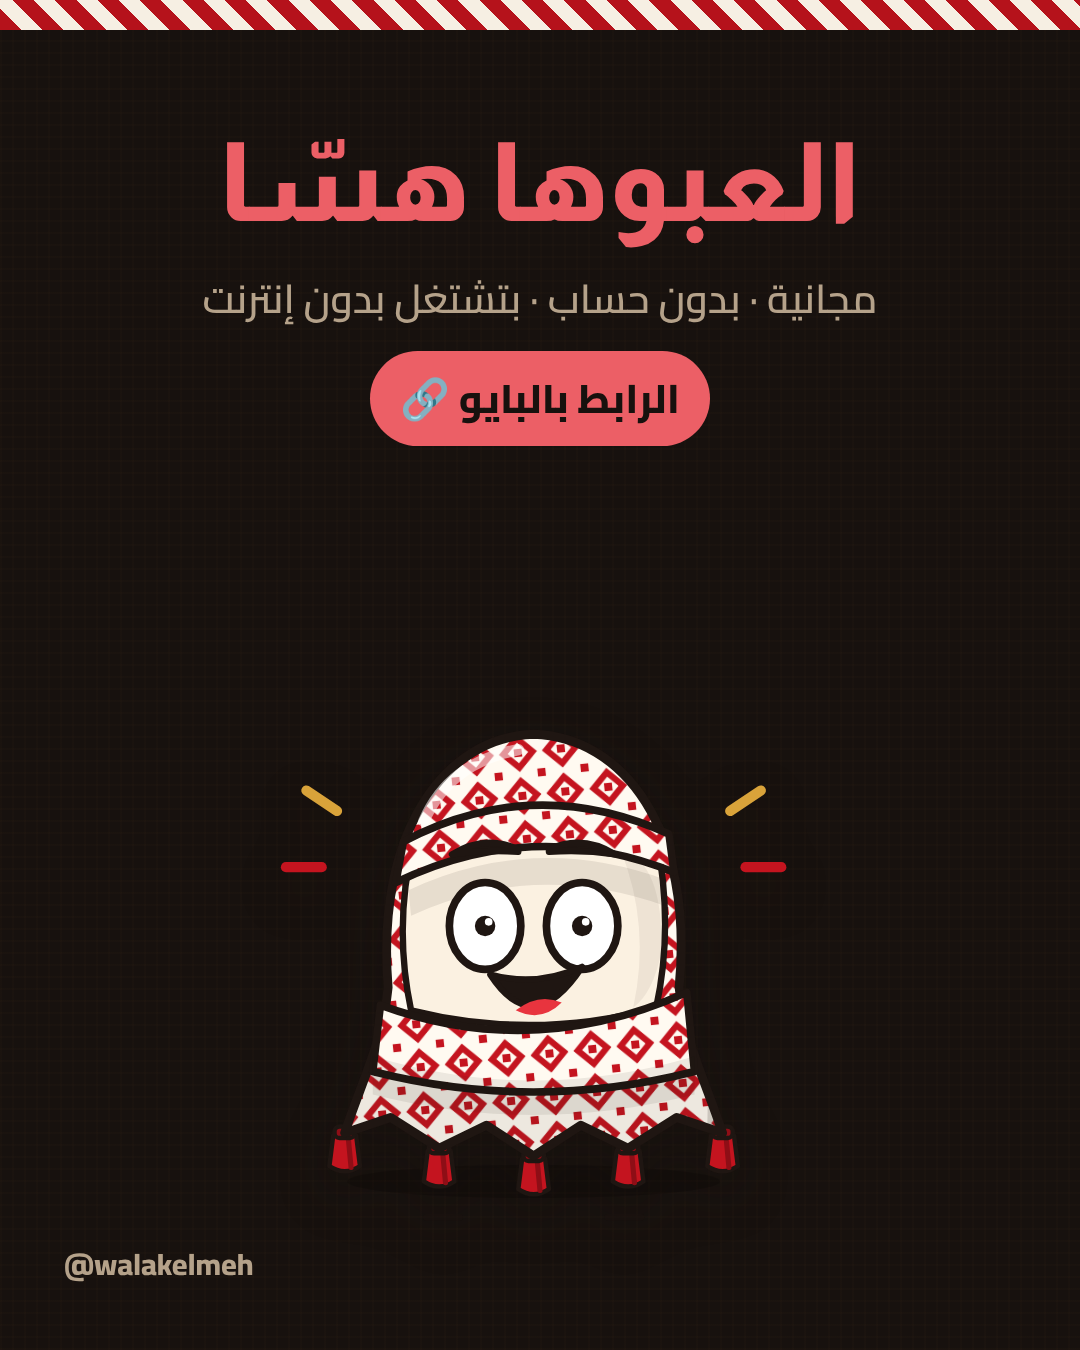
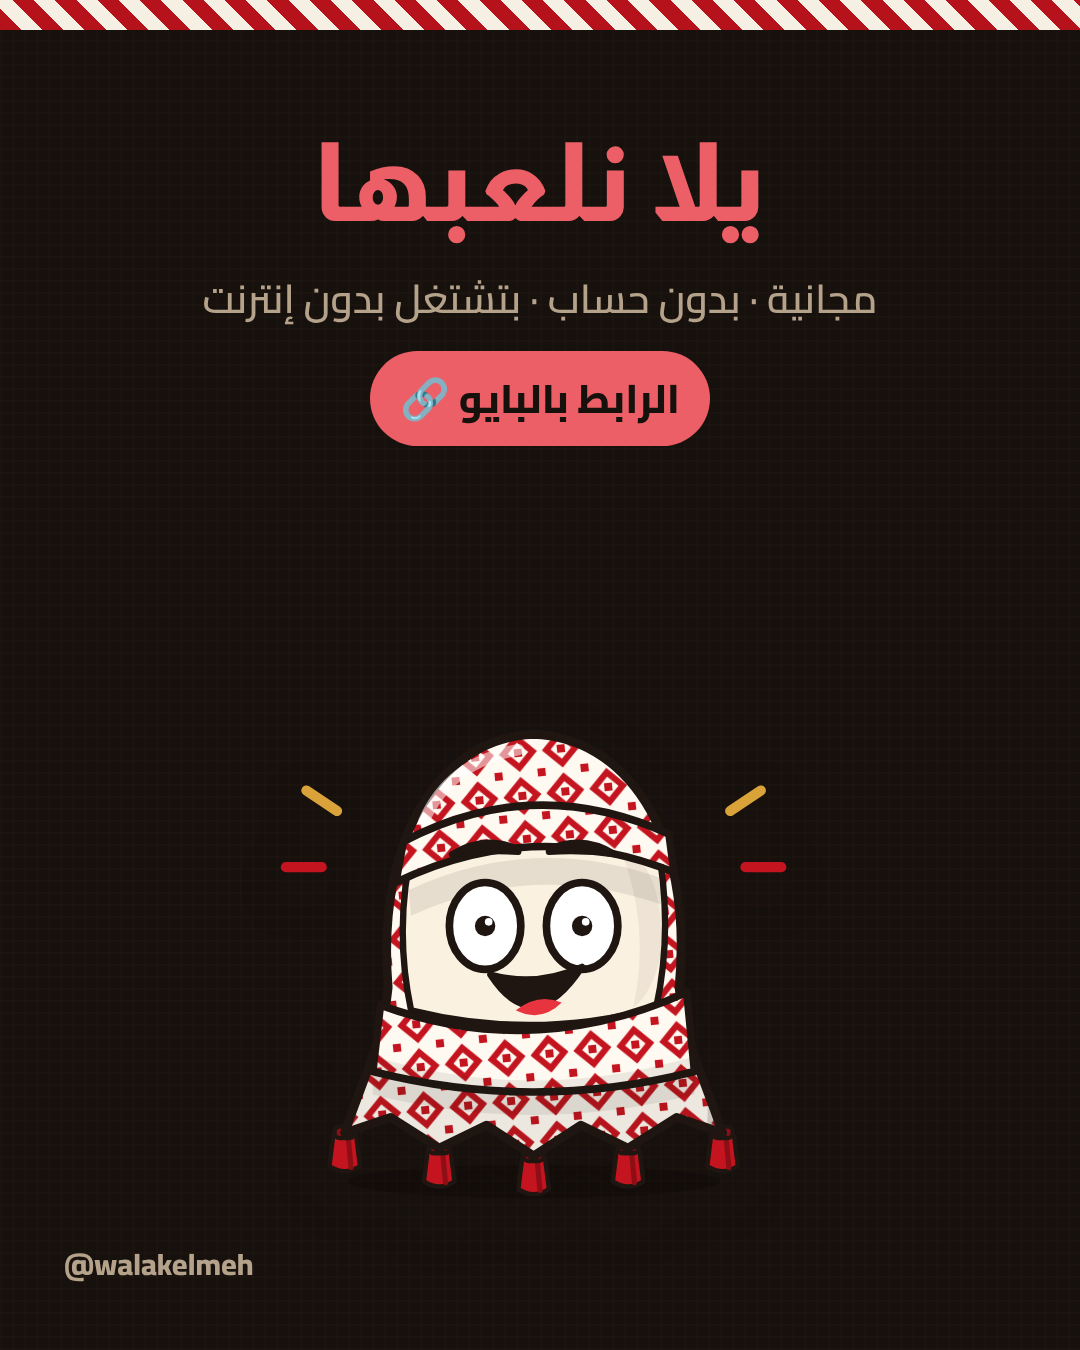
Add the launch plan for Thursday 5 November 2026
Zero-budget, solo-sized plan: 30-day goals, prep checklist, teasers, launch
night, four weeks of posts, weekly routine, video scripts, ready-to-send
messages and quick replies. The social kit's post 9 and bio now use «يلا نلعب».

Claude-Session: https://claude.ai/code/session_011con5sebt3vto5L265rjMa

Changed region(s): [[0.1833, 0.0933, 0.7944, 0.1867]]

diff --git a/brand/tools/social/social.py b/brand/tools/social/social.py
@@ -74,7 +74,7 @@ post('heads-up', 'cream', f'''<div class="band" style="top:0"></div>
 <div style="position:absolute;top:560px;left:90px;width:620px;height:350px;border-radius:44px;background:#17110e;padding:14px;transform:rotate(-5deg);box-shadow:0 24px 48px rgba(23,17,14,.3)"><img src="{RAW('headsup')}" style="width:100%;height:100%;border-radius:32px;object-fit:cover"></div>
 <img class="masc" src="{M('headsup')}" style="width:420px;bottom:110px;right:40px">{foot('cream', False)}''')
 post('play-now', 'night', f'''<div class="band" style="top:0"></div>
-<div style="position:absolute;top:120px;left:0;right:0;text-align:center;display:grid;gap:22px"><h1 style="font-size:110px">العبوها هسّا</h1><p>مجانية · بدون حساب · بتشتغل بدون إنترنت</p>
+<div style="position:absolute;top:120px;left:0;right:0;text-align:center;display:grid;gap:22px"><h1 style="font-size:110px">يلا نلعبها</h1><p>مجانية · بدون حساب · بتشتغل بدون إنترنت</p>
 <span class="chip" style="justify-self:center;font-size:40px">الرابط بالبايو 🔗</span></div>
 <img class="masc" src="{M('yay')}" style="width:600px;bottom:120px;left:50%;transform:translateX(-50%)">{foot('night', False)}''')
 

diff --git a/docs/marketing/launch-plan.md b/docs/marketing/launch-plan.md
@@ -1,0 +1,161 @@
+# Launch plan: Thursday 5 November 2026
+
+The public launch of ولا كلمة. The website and game are already live at walakelmeh.com; this is the night we announce it loudly.
+
+- **Launch:** Thursday 5 November 2026, 8 pm Amman time. Thursday night opens the weekend, which is when people gather and play.
+- **Budget:** zero. Everything here is organic.
+- **Team:** Mikdam alone, a few hours a week. The plan is sized for that: content is batched once a week and every reply is pre-written.
+- **Posts, stories and video ideas** are in the social kit (`docs/social/launch-plan.md`, graphics in `brand/social/`). This plan schedules them and adds everything around them.
+
+Shareable version with a tick-off checklist and copy buttons: https://claude.ai/artifact/5LgKUt1T8F9xBBwAmehFhn (private until shared).
+
+## Goals for the first 30 days (5 Nov – 3 Dec)
+
+Realistic for organic and solo. We review them on Thursday 3 December.
+
+| Goal | Target | Where we read it |
+| --- | --- | --- |
+| Games started | 1,000 | GoatCounter, `game-start/…` events |
+| Installs to the home screen | 150 | GoatCounter, `install/installed` and `install/prompt-accepted` |
+| Instagram and TikTok followers (together) | 500 | The apps' own insights |
+| Card suggestions through the website | 30 | hello@walakelmeh.com |
+| Cafés that agree to a pilot night | 3 | Our own list |
+| Stretch: one video with 10,000+ views | 1 | The apps' own insights |
+
+GoatCounter has to be connected before launch, or the first two goals can't be measured.
+
+## The free levers
+
+1. **The launch crew.** 15 to 20 friends and family who play on launch night and share the link or their result picture. The first wave of reach always comes from people who know you.
+2. **WhatsApp.** The game's "شارك النتيجة" picture is our built-in loop: every shared result is an ad. Status on launch night, and a "Thursday night" reminder each week.
+3. **Micro-creators.** Jordanian creators with 2,000 to 50,000 followers who post family, comedy or food content. No money: they get early access and a card made for them in the game.
+4. **Cafés.** The 3-café pilot from the partner playbook (`docs/partner-playbook.md`), with the printed kit (`brand/partner-kit/`).
+5. **Communities.** One honest post each in groups where it's allowed: Jordanians abroad, parents' groups, university student clubs, and r/jordan on Reddit. Always with a real clip, never a bare link.
+6. **Search.** Search Console and Bing are set up, and the blog articles bring people searching for party games.
+
+## Before launch (26 Oct – 4 Nov)
+
+| When | Task | Who |
+| --- | --- | --- |
+| Mon 26 – Tue 27 Oct | Create **@walakelmeh** on Instagram and TikTok. Also reserve it on Facebook, X and YouTube so nobody else takes it. | Mikdam |
+| Mon 26 – Tue 27 Oct | Set up the profiles: picture `profile/profile-patch.png`, name, bio and link (below), highlight covers. | Mikdam |
+| Mon 26 – Tue 27 Oct | Send Claude the handles; they go into the website footer and its search data. | Mikdam → Claude |
+| Mon 26 – Tue 27 Oct | Create a free GoatCounter account and send Claude the site code; Claude connects it. | Mikdam → Claude |
+| Mon 26 – Tue 27 Oct | Finish Search Console and Bing. | Mikdam |
+| Wed 28 – Thu 29 Oct | Write the launch crew list (15–20 people) and send them the heads-up message. | Mikdam |
+| Wed 28 – Thu 29 Oct | Pick 10 micro-creators and send the creator message. | Mikdam |
+| Wed 28 – Thu 29 Oct | Pick 5 cafés and send the café message, or visit with a printed table tent. | Mikdam |
+| Fri 30 – Sat 31 Oct | Film the 4 launch videos with family and friends (scripts below), in one 2-hour session. | Mikdam |
+| Sun 1 Nov | Schedule launch week's posts in Meta Business Suite (free, covers Instagram) and TikTok's scheduler. | Mikdam |
+| Sun 1 – Wed 4 Nov | Teasers (below). | Mikdam |
+| Wed 4 Nov | Remind the launch crew: tomorrow at 8. | Mikdam |
+
+### Teasers
+
+| Day | Story or post | Text |
+| --- | --- | --- |
+| Sun 1 Nov | Story: Shammogh's sticker on a plain background | «في إشي جاي… 🤫» |
+| Mon 2 Nov | Story with a quiz sticker | «شو يعني «ولا كلمة»؟» |
+| Tue 3 Nov | 7-second reel: someone acting a card, cut before the answer | «الجواب الخميس 😏» |
+| Wed 4 Nov | Story with a countdown sticker to Thursday 8 pm | «بكرا الساعة ٨… جهّزوا حالكم» |
+
+## Launch night (Thursday 5 November)
+
+| Time | What |
+| --- | --- |
+| 6:00 pm | Open walakelmeh.com and the game on an Android phone and an iPhone. Check play, the install button and a form. |
+| 8:00 pm | Post 1 (`post-01-arrived`) and the best video as the first reel, on Instagram and TikTok. |
+| 8:05 pm | Stories: a link sticker to walakelmeh.com, then «العبوها الليلة وشاركونا النتيجة». |
+| 8:10 pm | WhatsApp: your status, then the launch message to the launch crew and family groups. |
+| 8:30 – 10:30 pm | Reply to every comment and message (quick replies below), and repost every story that tags us. |
+| Fri 6 Nov | Post 2, plus a thank-you story: «أول ليلة: شكراً إلكم 🙏». |
+
+## The first four weeks
+
+Sized for one person: 2 feed posts and 1 video a week, plus stories on 3 days. The post numbers refer to the social kit.
+
+| Week | Thursday (video) | Saturday (post) | Tuesday (post) | Stories |
+| --- | --- | --- | --- | --- |
+| 1 · 5–11 Nov | Launch: post 1 + video 1 «لما خالتك تمثّل منسف» | Post 2: meet Shammogh | Post 3: how it works | Thank-you, quiz, suggest-a-card |
+| 2 · 12–18 Nov | Video 2: family vs friends | Post 4: mansaf, «اكتبوا كيف بتمثّلوها» | Post 5: three modes | This-or-that poll, café night |
+| 3 · 19–25 Nov | Video 3: heads-up fails | Post 6: categories | Post 7: «يا زلمة!» | Guess-the-word, first community card |
+| 4 · 26 Nov – 2 Dec | Video 4: guess with us (or a café night recap if one happened) | Post 8: heads-up | Post 9: «يلا نلعبها» | Suggest-a-card, a café winner |
+| Thu 3 Dec | **30-day review** against the goals | | | |
+
+## Weekly routine (about 3 hours)
+
+| When | Time | What |
+| --- | --- | --- |
+| Sunday | 90 min | Schedule the week's 2 posts and the video. Plan 3 story days. |
+| Every day | 10 min | Reply to comments and messages, and repost tags. |
+| Thursday evening | 20 min | A "Thursday night" story: «شو بتلعبوا الليلة؟» |
+| Once a week | 30 min | Check the numbers (GoatCounter and the apps' insights), read the suggestions, and pick a community card to add. |
+
+## The four launch videos
+
+Film on a phone, vertical, with natural light. Each is 15 to 25 seconds. Put the hook as text in the first second.
+
+1. **«لما خالتك تمثّل منسف» 😂** A relative acts one card while everyone shouts wrong guesses, the timer beeps, then the answer appears. End on «يلا نلعب · walakelmeh.com».
+2. **Family vs friends.** The same 5 cards, two groups, quick cuts and a running score. End on the game's result picture.
+3. **Heads-up fails.** The funniest wrong guesses in «عالجبين», each with a freeze frame and a Shammogh sticker.
+4. **Guess with us.** Act a card to the camera for 5 seconds, then «اكتبوا جوابكم بالتعليقات 👇», with the answer at the very end. Comments push the video further.
+
+## Ready-to-send messages
+
+### Heads-up to the launch crew (WhatsApp)
+
+> هلا! 👋 الخميس الجاي (٥ تشرين الثاني) الساعة ٨ بنطلق «ولا كلمة»: لعبة تمثيل أردنية للسهرات، مجانية وبتشتغل عالجوال. بدنا منكم إشي بسيط: ليلتها العبوها مع أهلكم أو صحابكم، وشاركوا الرابط أو صورة النتيجة عالستوري 🙏 walakelmeh.com
+
+### Launch message (to forward)
+
+> 🎭 «ولا كلمة» صارت جاهزة! لعبة التمثيل الأردنية: طلّع البطاقة، مثّلها بالحركات، وفريقك بحزر قبل ما يخلص الوقت. ٥١٠ بطاقة، مجانية، بدون حساب، وبتشتغل بدون إنترنت. يلا نلعب 👉 walakelmeh.com
+>
+> *Wala Kelmeh is here: the Jordanian charades game. 510 cards, free, no account, works offline. Let's play 👉 walakelmeh.com*
+
+### Creator message (Instagram or TikTok DM)
+
+> مرحبا [الاسم]! 👋 إحنا فريق «ولا كلمة»، لعبة تمثيل أردنية مجانية للسهرات (walakelmeh.com). بنحب محتواك، وحاسّين إنو اللعبة بتعمل فيديو بيضحّك مع عيلتك أو صحابك. بنطلق الخميس ٥ تشرين الثاني، وحابين نعطيك إياها قبل الكل، وإذا عملت فيديو منضيف باللعبة بطاقة خاصة فيك ✨ بدون أي التزام. شو رأيك؟
+
+### Café message
+
+> مرحبا! إحنا فريق «ولا كلمة»، لعبة تمثيل أردنية مجانية بتنلعب عالجوال. بنجرّب «ليلة ولا كلمة» بـ٣ مقاهي بعمّان: الزبائن بيلعبوا طاولة ضد طاولة، والفايز بياخذ جائزة منكم. منعطيكم كيت مطبوع (ستاند طاولة، بوستر، ستيكر للواجهة) ببلاش، ومنروّج لمحلّكم على صفحاتنا. بتحبوا نحكي ١٠ دقايق؟
+
+### Community post (groups and Reddit)
+
+> We made a free Jordanian charades game for family nights: 510 cards in Jordanian Arabic (with Arabizi), three modes including heads-up, no account, and it works offline once opened. It runs in the browser and installs to your home screen. We'd love feedback and card ideas: walakelmeh.com
+>
+> عملنا لعبة تمثيل أردنية مجانية للسهرات: ٥١٠ بطاقة بالحكي الأردني، ٣ طرق للعب، بدون حساب وبتشتغل بدون إنترنت. بنحب نسمع رأيكم وأفكار بطاقات: walakelmeh.com
+
+## Quick replies
+
+| They ask | Reply |
+| --- | --- |
+| كيف بنزّلها؟ | ادخلوا walakelmeh.com واكبسوا «ثبّتها على جوالك» 📲 على أندرويد بكبسة، وعلى آيفون بتورجيكم الخطوتين. |
+| بدها نت؟ | بس أول مرة، بعدها بتشتغل بدون إنترنت ✈ |
+| ببلاش؟ | اللعبة الأساسية مجانية دايماً، وما في إعلانات بنص اللعب 🤝 |
+| في إلها تطبيق؟ | بتنثبّت على شاشتكم وبتشتغل زي التطبيق، وقريباً على Google Play 🔜 |
+| عندي فكرة بطاقة | يا سلام! اقترحها هون 👉 walakelmeh.com/categories/ وإذا انضافت منذكر اسمك 🙌 |
+| بدنا ليلة بمحلنا | تكرم! عبّوا النموذج هون 👉 walakelmeh.com/cafes/ ومنرجعلكم خلال يومين ☕ |
+| بالإنجليزي؟ | Every card has Arabizi under it, and the website has an English version: walakelmeh.com/en/ |
+
+## Risks
+
+| Risk | What we do |
+| --- | --- |
+| Small reach with no budget | The launch crew, creators and the WhatsApp result picture carry the first wave. Comments get reused as content. |
+| Running it alone gets tiring | Batch once a week, use the quick replies, and stick to 2 posts a week. Missing a day is fine. |
+| iPhone users don't know how to install | The game shows the steps. Add a «ثبّتها» story highlight. |
+| Group posts look like spam | One post per group, only where self-promotion is allowed, always with a real clip. |
+
+## After the 30 days
+
+- **New Year's Eve (20–31 Dec):** a countdown-game reel and a «سهرة آخر السنة» story series, linked to the winter-nights blog article.
+- **Ramadan 2027 (starts around 8 February, depending on the moon sighting):** start preparing in mid-January, with «سهرة سحور» café nights, the «رمضان والعيد» category, and the Ramadan blog article. Likely the biggest moment of the year.
+- **Google Play:** once the developer account exists, the store launch becomes its own mini-campaign.
+
+## Claude's part
+
+- Add the social handles to the website (footer and search data) as soon as they exist.
+- Connect GoatCounter once the site code arrives.
+- Keep the social kit in line with «يلا نلعب» (done for post 9 and the bio).
+- Add the community card each week, and a creator's card when one posts a video.

diff --git a/docs/social/launch-plan.md b/docs/social/launch-plan.md
@@ -1,5 +1,7 @@
 # Social kit and launch plan
 
+The dated launch campaign (5 November 2026) that schedules these posts is in [`docs/marketing/launch-plan.md`](../marketing/launch-plan.md).
+
 Instagram first, TikTok alongside. Graphics are in [`brand/social/`](../../brand/social/); regenerate them with `brand/tools/social/social.py` (it needs `website/out/` built for the stitch art).
 
 Handle: **@walakelmeh** on every platform (placeholder until the accounts exist; change `HANDLE` in the script if it differs).
@@ -10,8 +12,8 @@ Handle: **@walakelmeh** on every platform (placeholder until the accounts exist;
 | --- | --- |
 | Profile picture | `profile/profile-patch.png` (recommended, matches the app icon) or `profile/profile-shammogh.png` |
 | Name | ولا كلمة · Wala Kelmeh |
-| Bio | 🎭 لعبة التمثيل الأردنية<br>🤫 مثّلها… بس ولا كلمة!<br>📱 مجانية · بدون حساب · بدون إنترنت<br>⬇ العبها هسّا |
-| Link | walakelmeh.com (the GitHub address until the domain is live) |
+| Bio | 🎭 لعبة التمثيل الأردنية<br>🤫 مثّلها… بس ولا كلمة!<br>📱 مجانية · بدون حساب · بدون إنترنت<br>⬇ يلا نلعب |
+| Link | walakelmeh.com |
 | Highlights | `profile/highlight-*.png`: كيف تلعب · الفئات · شمّوغ · سهراتكم · للمقاهي · قريباً |
 
 ## The 9 launch posts (1080×1350)
